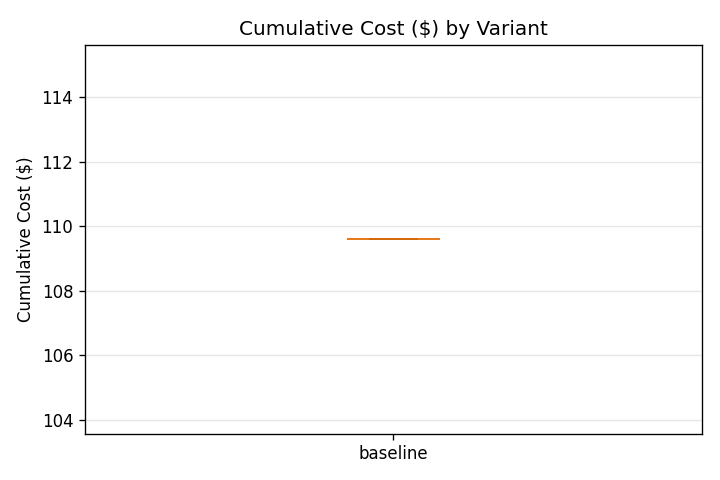
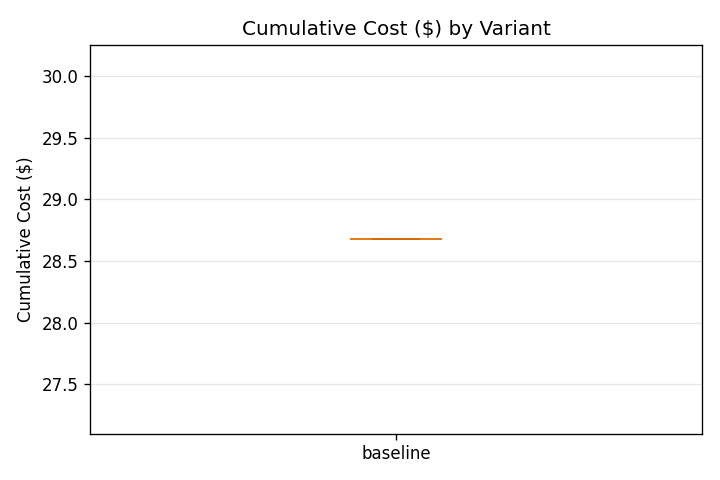
Add study duration field; regenerate benchmark-control report (40m cap)
- Add optional 'duration' field to Study struct for simulation time limit
- Use engine.run_until() when duration is set instead of run_to_completion()
- Set benchmark-control scenario duration to 40m
- Regenerated report: 4 distinct phases visible, x-axis in minutes

Changed region(s): [[0.0611, 0.0938, 0.1528, 0.9062], [0.3361, 0.0312, 0.7639, 0.0938], [0.4889, 0.9062, 0.6111, 0.9688]]

diff --git a/crates/kubesim-py/src/lib.rs b/crates/kubesim-py/src/lib.rs
@@ -536,7 +536,17 @@ fn run_single(
         }
     }
 
-    let events_processed = engine.run_to_completion(&mut state);
+    let events_processed = if let Some(stop_ns) = scenario.study.duration.as_deref()
+        .and_then(kubesim_workload::parse_duration_ns)
+    {
+        let stop_time = match time_mode {
+            TimeMode::WallClock => SimTime(stop_ns),
+            TimeMode::Logical => SimTime(stop_ns / 1_000_000_000),
+        };
+        engine.run_until(&mut state, stop_time)
+    } else {
+        engine.run_to_completion(&mut state)
+    };
 
     // Extract snapshots from SimHandler for cumulative metrics and timeseries
     let mut cumulative = (0.0, 0.0, 0.0, 0.0, 0u64, 0.0, 0u32, 0.0, 0.0, 0.0);

diff --git a/crates/kubesim-workload/src/scenario.rs b/crates/kubesim-workload/src/scenario.rs
@@ -25,6 +25,9 @@ pub struct Study {
     pub time_mode: TimeMode,
     #[serde(default)]
     pub catalog_provider: CatalogProvider,
+    /// Optional simulation duration (e.g. "40m", "2h"). Stops the sim at this wall-clock time.
+    #[serde(default)]
+    pub duration: Option<String>,
     pub cluster: ClusterConfig,
     pub workloads: Vec<WorkloadDef>,
     #[serde(default)]

diff --git a/results/benchmark-control/benchmark-control/report.md b/results/benchmark-control/benchmark-control/report.md
@@ -9,24 +9,24 @@ Runs per variant: 10
 
 | Metric | Mean | Median | p90 | p99 |
 |--------|------|--------|-----|-----|
-| Cumulative Cost ($) | 109.5984 | 109.5984 | 109.5984 | 109.5984 |
-| Cumulative vCPU-Hours | 1332.2642 | 1332.2642 | 1332.2642 | 1332.2642 |
-| Cumulative GiB-Hours | 7012.0417 | 7012.0417 | 7012.0417 | 7012.0417 |
-| Time-Weighted Node Count | 1028430.0000 | 1028430.0000 | 1028430.0000 | 1028430.0000 |
-| Time to Stable (s) | 2160.0000 | 2160.0000 | 2160.0000 | 2160.0000 |
-| Pending Pod-Seconds | 720.0000 | 720.0000 | 720.0000 | 720.0000 |
+| Cumulative Cost ($) | 28.6776 | 28.6776 | 28.6776 | 28.6776 |
+| Cumulative vCPU-Hours | 341.1292 | 341.1292 | 341.1292 | 341.1292 |
+| Cumulative GiB-Hours | 1795.4167 | 1795.4167 | 1795.4167 | 1795.4167 |
+| Time-Weighted Node Count | 270435.0000 | 270435.0000 | 270435.0000 | 270435.0000 |
+| Time to Stable (s) | 2400.0000 | 2400.0000 | 2400.0000 | 2400.0000 |
+| Pending Pod-Seconds | 0.0000 | 0.0000 | 0.0000 | 0.0000 |
 | Disruption Count | 0.0000 | 0.0000 | 0.0000 | 0.0000 |
 | Disruption-Seconds | 0.0000 | 0.0000 | 0.0000 | 0.0000 |
 | Peak Node Count | 186.0000 | 186.0000 | 186.0000 | 186.0000 |
-| Peak Cost Rate ($/hr) | 71.4240 | 71.4240 | 71.4240 | 71.4240 |
+| Peak Cost Rate ($/hr) | 71.2320 | 71.2320 | 71.2320 | 71.2320 |
 
 ### End-State Metrics (Diagnostic)
 
 | Metric | Mean | Median | p90 | p99 |
 |--------|------|--------|-----|-----|
-| Cost Rate ($/hr) | 1.5360 | 1.5360 | 1.5360 | 1.5360 |
-| Node Count | 4.0000 | 4.0000 | 4.0000 | 4.0000 |
+| Cost Rate ($/hr) | 2.6880 | 2.6880 | 2.6880 | 2.6880 |
+| Node Count | 7.0000 | 7.0000 | 7.0000 | 7.0000 |
 | Running Pods | 20.0000 | 20.0000 | 20.0000 | 20.0000 |
 | Pending Pods | 0.0000 | 0.0000 | 0.0000 | 0.0000 |
-| Events Processed | 1000000.0000 | 1000000.0000 | 1000000.0000 | 1000000.0000 |
-| Final Time | 204950000000004.0000 | 204950000000004.0000 | 204950000000004.0000 | 204950000000004.0000 |
+| Events Processed | 5628.0000 | 5628.0000 | 5628.0000 | 5628.0000 |
+| Final Time | 2400000000000.0000 | 2400000000000.0000 | 2400000000000.0000 | 2400000000000.0000 |
